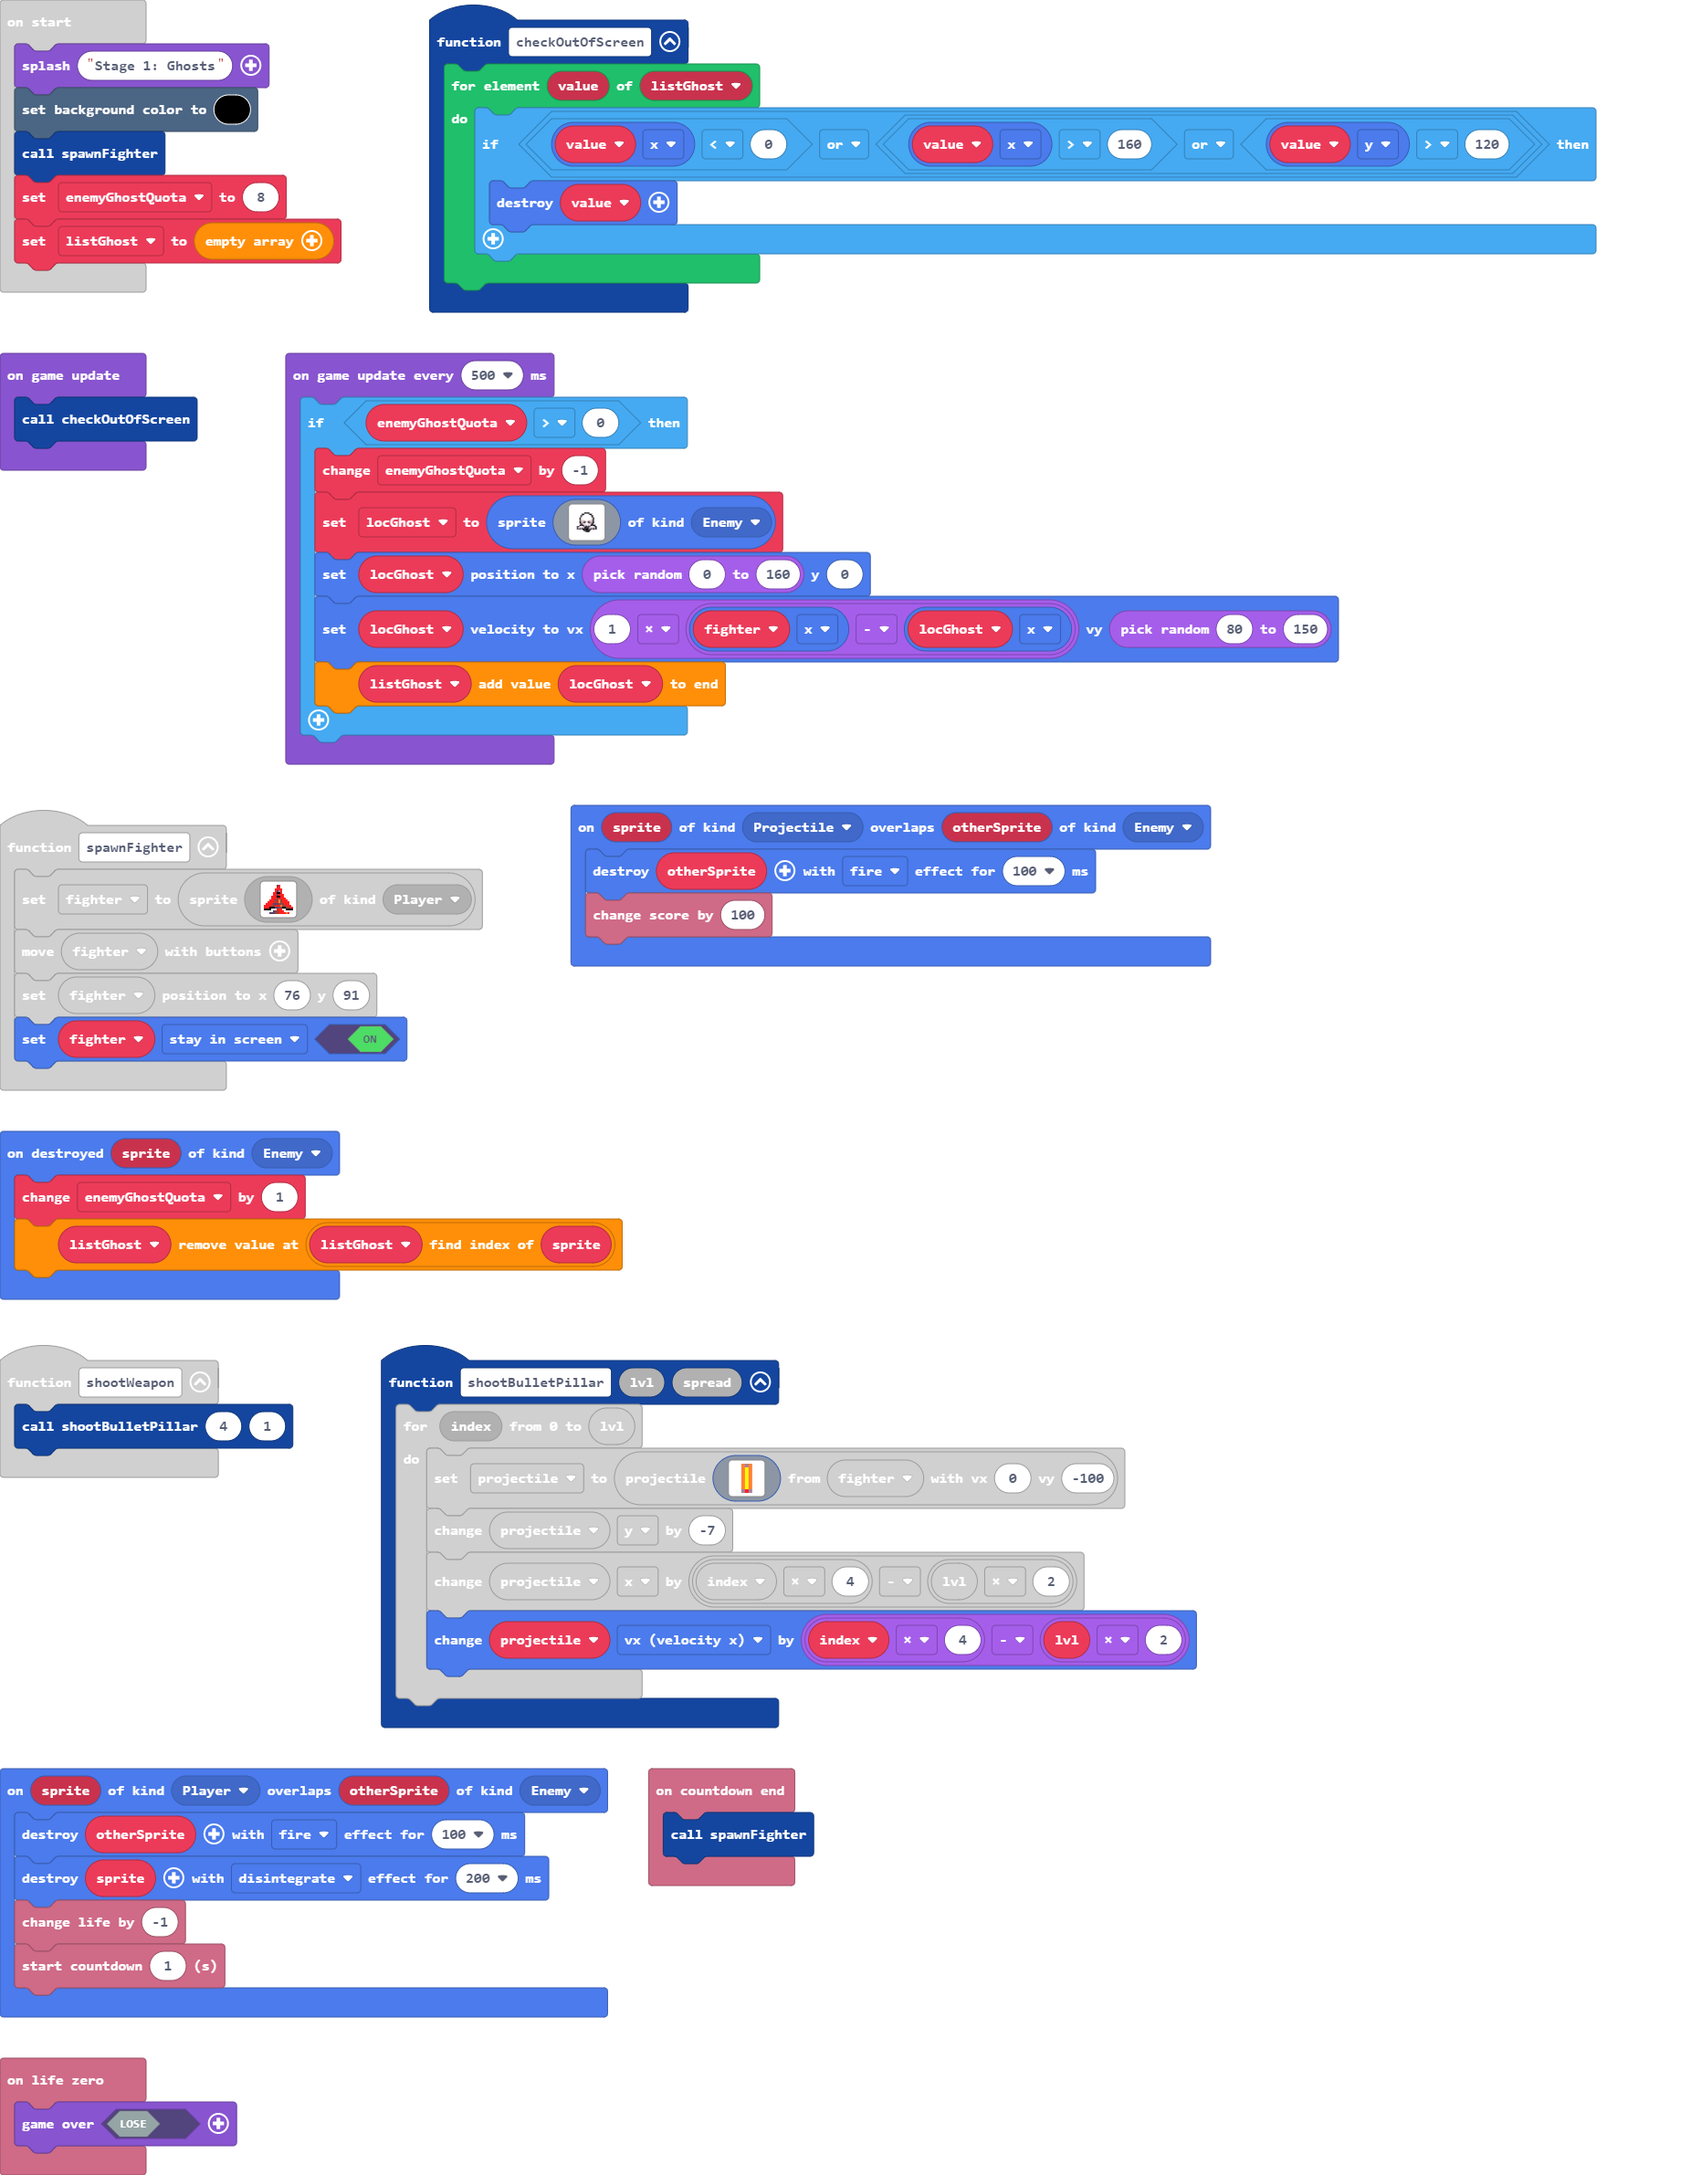
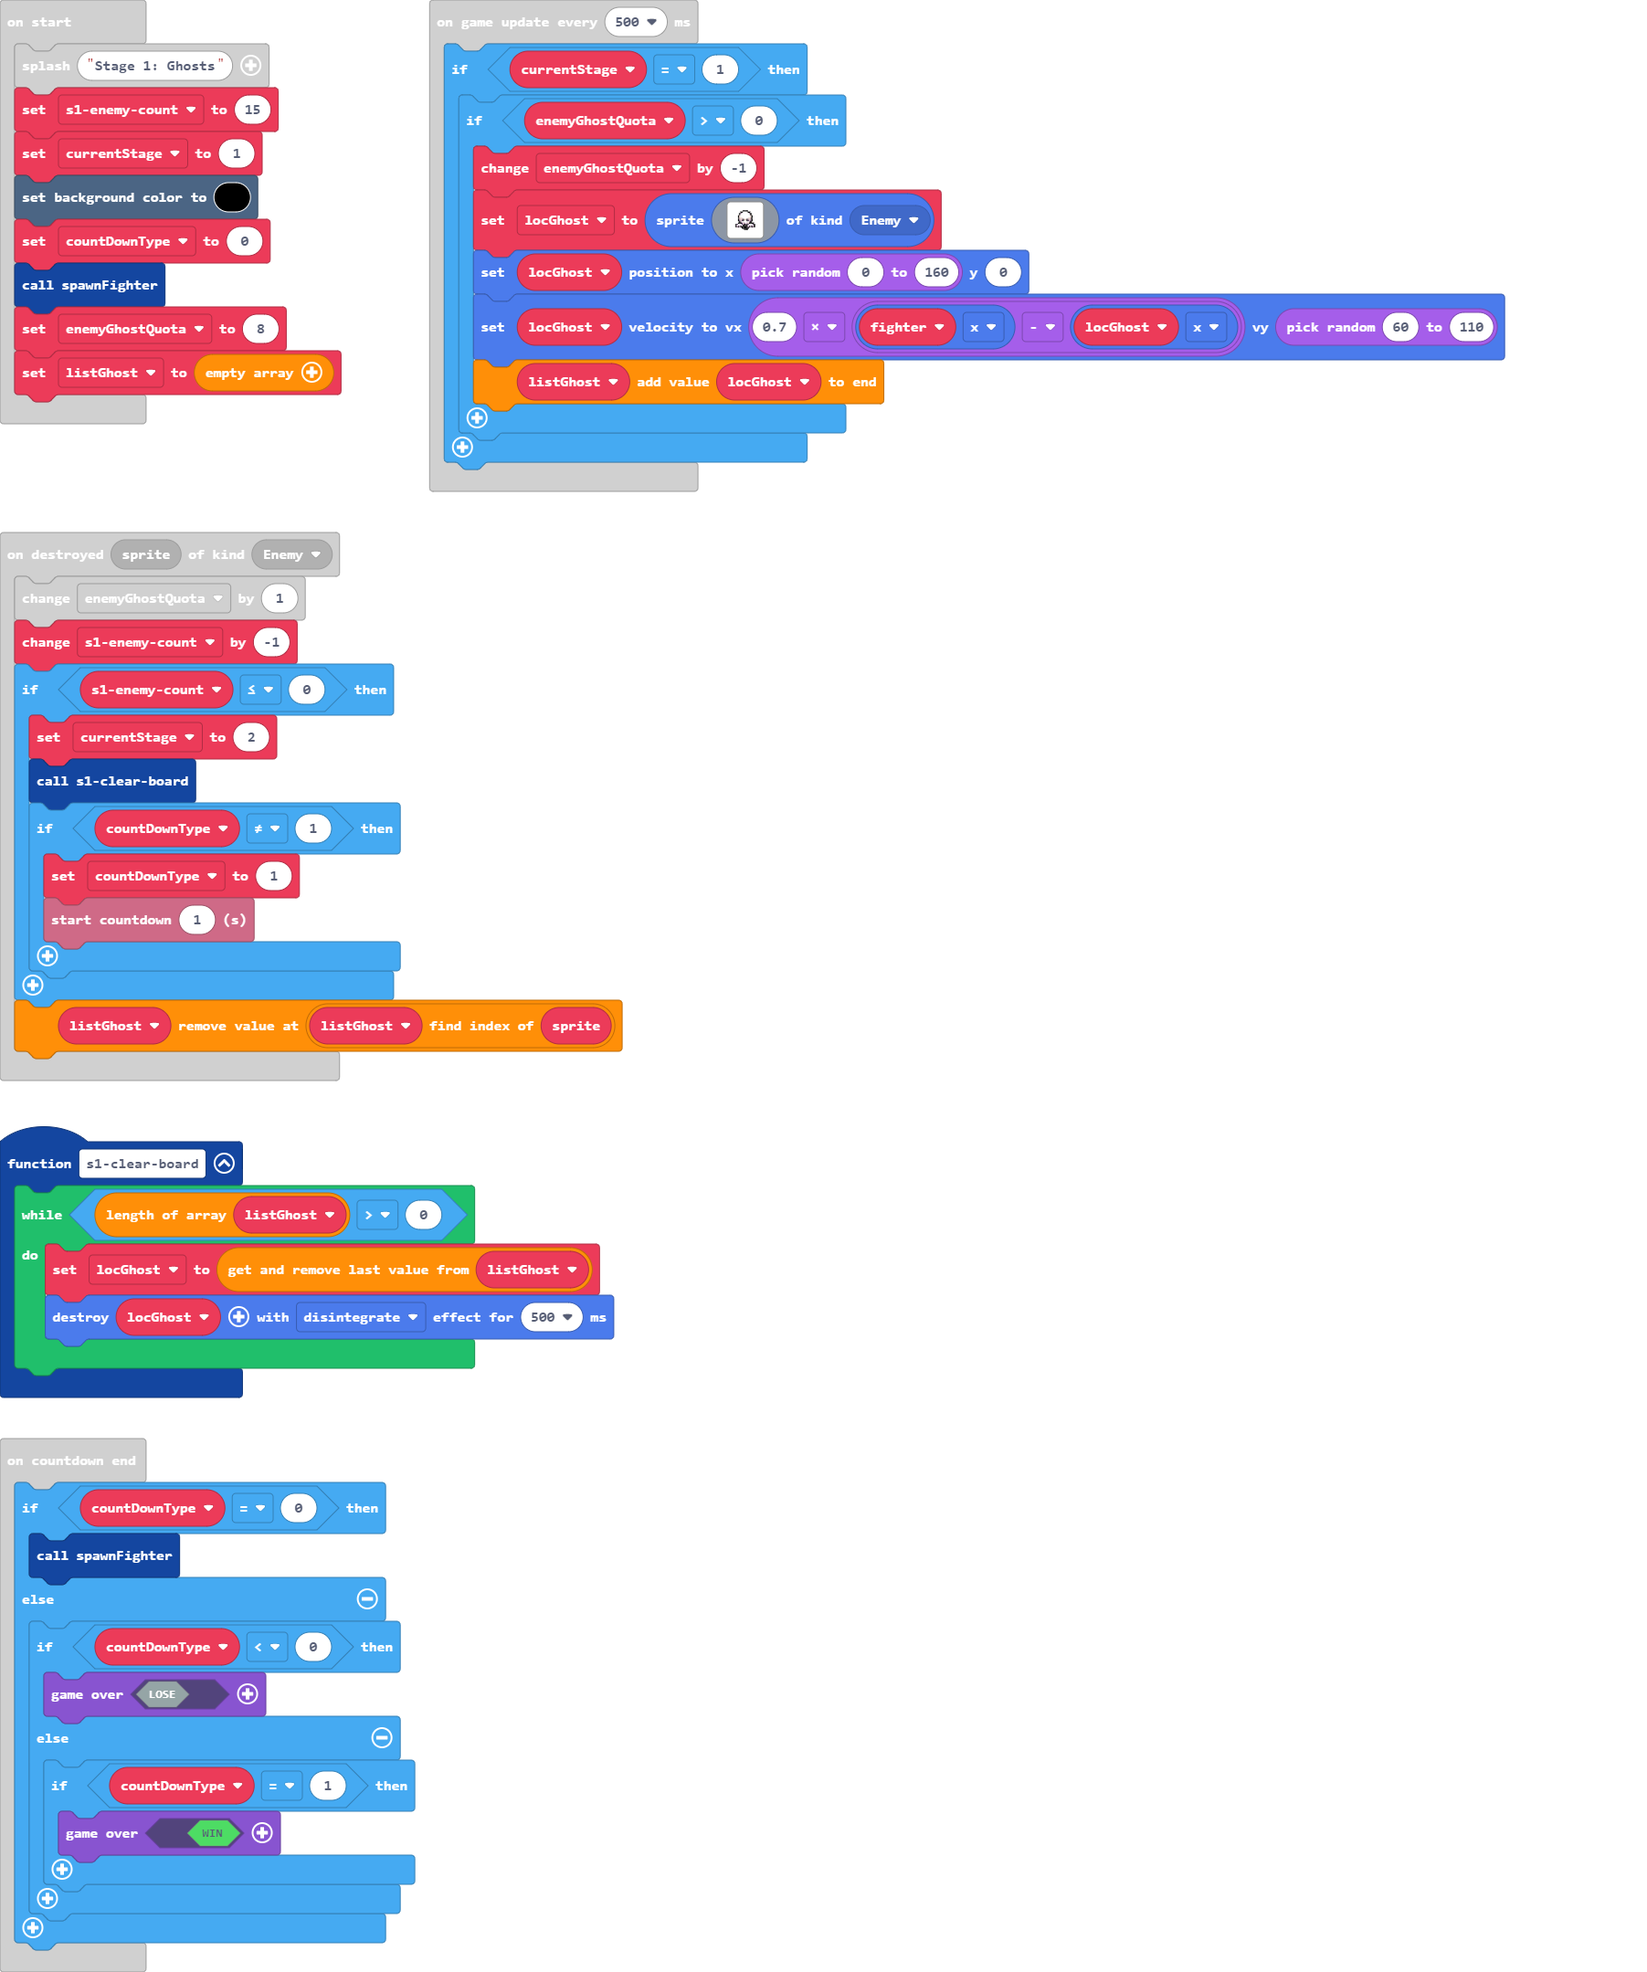
stage 1 ghost done with quota

diff --git a/main.ts b/main.ts
@@ -32,16 +32,41 @@ function checkOutOfScreen () {
     }
 }
 info.onCountdownEnd(function () {
-    spawnFighter()
+    if (countDownType == 0) {
+        spawnFighter()
+    } else {
+        if (countDownType < 0) {
+            game.over(false)
+        } else {
+            if (countDownType == 1) {
+                game.over(true)
+            }
+        }
+    }
 })
 function shootWeapon () {
     shootBulletPillar(4, 1)
+}
+function s1clearboard () {
+    while (listGhost.length > 0) {
+        locGhost = listGhost.pop()
+        locGhost.destroy(effects.disintegrate, 500)
+    }
 }
 info.onLifeZero(function () {
     game.over(false)
 })
 sprites.onDestroyed(SpriteKind.Enemy, function (sprite) {
     enemyGhostQuota += 1
+    s1enemycount += -1
+    if (s1enemycount <= 0) {
+        currentStage = 2
+        s1clearboard()
+        if (countDownType != 1) {
+            countDownType = 1
+            info.startCountdown(1)
+        }
+    }
     listGhost.removeAt(listGhost.indexOf(sprite))
 })
 function shootBulletPillar (lvl: number, spread: number) {
@@ -71,12 +96,18 @@ sprites.onOverlap(SpriteKind.Player, SpriteKind.Enemy, function (sprite, otherSp
     info.changeLifeBy(-1)
     info.startCountdown(1)
 })
-let locGhost: Sprite = null
 let projectile: Sprite = null
+let locGhost: Sprite = null
 let fighter: Sprite = null
 let listGhost: Sprite[] = []
+let countDownType = 0
+let currentStage = 0
+let s1enemycount = 0
 game.splash("Stage 1: Ghosts")
+s1enemycount = 15
+currentStage = 1
 scene.setBackgroundColor(15)
+countDownType = 0
 spawnFighter()
 let enemyGhostQuota = 8
 listGhost = []
@@ -84,36 +115,38 @@ game.onUpdate(function () {
     checkOutOfScreen()
 })
 game.onUpdateInterval(500, function () {
-    if (enemyGhostQuota > 0) {
-        enemyGhostQuota += -1
-        locGhost = sprites.create(img`
-            . . . . . . . . . . . . . . . . . . . . . . . . 
-            . . . . . . . . . . . . . . . . . . . . . . . . 
-            . . . . . . . . . . . . . . . . . . . . . . . . 
-            . . . . . . . . . . . . . . . . . . . . . . . . 
-            . . . . . . . . . . f f f f . . . . . . . . . . 
-            . . . . . . . . f f 1 1 1 1 f f . . . . . . . . 
-            . . . . . . . f b 1 1 1 1 1 1 b f . . . . . . . 
-            . . . . . . . f 1 1 1 1 1 1 1 1 f . . . . . . . 
-            . . . . . . f d 1 1 1 1 1 1 1 1 d f . . . . . . 
-            . . . . . . f d 1 1 1 1 1 1 1 1 d f . . . . . . 
-            . . . . . . f d d d 1 1 1 1 d d d f . . . . . . 
-            . . . . . . f b d b f d d f b d b f . . . . . . 
-            . . . . . . f c d c f 1 1 f c d c f . . . . . . 
-            . . . . . . . f b 1 1 1 1 1 1 b f . . . . . . . 
-            . . . . . . f f f c d b 1 b d f f f f . . . . . 
-            . . . . f c 1 1 1 c b f b f c 1 1 1 c f . . . . 
-            . . . . f 1 b 1 b 1 f f f f 1 b 1 b 1 f . . . . 
-            . . . . f b f b f f f f f f b f b f b f . . . . 
-            . . . . . . . . . f f f f f f . . . . . . . . . 
-            . . . . . . . . . . . f f f . . . . . . . . . . 
-            . . . . . . . . . . . . . . . . . . . . . . . . 
-            . . . . . . . . . . . . . . . . . . . . . . . . 
-            . . . . . . . . . . . . . . . . . . . . . . . . 
-            . . . . . . . . . . . . . . . . . . . . . . . . 
-            `, SpriteKind.Enemy)
-        locGhost.setPosition(randint(0, 160), 0)
-        locGhost.setVelocity(1 * (fighter.x - locGhost.x), randint(80, 150))
-        listGhost.push(locGhost)
+    if (currentStage == 1) {
+        if (enemyGhostQuota > 0) {
+            enemyGhostQuota += -1
+            locGhost = sprites.create(img`
+                . . . . . . . . . . . . . . . . . . . . . . . . 
+                . . . . . . . . . . . . . . . . . . . . . . . . 
+                . . . . . . . . . . . . . . . . . . . . . . . . 
+                . . . . . . . . . . . . . . . . . . . . . . . . 
+                . . . . . . . . . . f f f f . . . . . . . . . . 
+                . . . . . . . . f f 1 1 1 1 f f . . . . . . . . 
+                . . . . . . . f b 1 1 1 1 1 1 b f . . . . . . . 
+                . . . . . . . f 1 1 1 1 1 1 1 1 f . . . . . . . 
+                . . . . . . f d 1 1 1 1 1 1 1 1 d f . . . . . . 
+                . . . . . . f d 1 1 1 1 1 1 1 1 d f . . . . . . 
+                . . . . . . f d d d 1 1 1 1 d d d f . . . . . . 
+                . . . . . . f b d b f d d f b d b f . . . . . . 
+                . . . . . . f c d c f 1 1 f c d c f . . . . . . 
+                . . . . . . . f b 1 1 1 1 1 1 b f . . . . . . . 
+                . . . . . . f f f c d b 1 b d f f f f . . . . . 
+                . . . . f c 1 1 1 c b f b f c 1 1 1 c f . . . . 
+                . . . . f 1 b 1 b 1 f f f f 1 b 1 b 1 f . . . . 
+                . . . . f b f b f f f f f f b f b f b f . . . . 
+                . . . . . . . . . f f f f f f . . . . . . . . . 
+                . . . . . . . . . . . f f f . . . . . . . . . . 
+                . . . . . . . . . . . . . . . . . . . . . . . . 
+                . . . . . . . . . . . . . . . . . . . . . . . . 
+                . . . . . . . . . . . . . . . . . . . . . . . . 
+                . . . . . . . . . . . . . . . . . . . . . . . . 
+                `, SpriteKind.Enemy)
+            locGhost.setPosition(randint(0, 160), 0)
+            locGhost.setVelocity(0.7 * (fighter.x - locGhost.x), randint(60, 110))
+            listGhost.push(locGhost)
+        }
     }
 })
